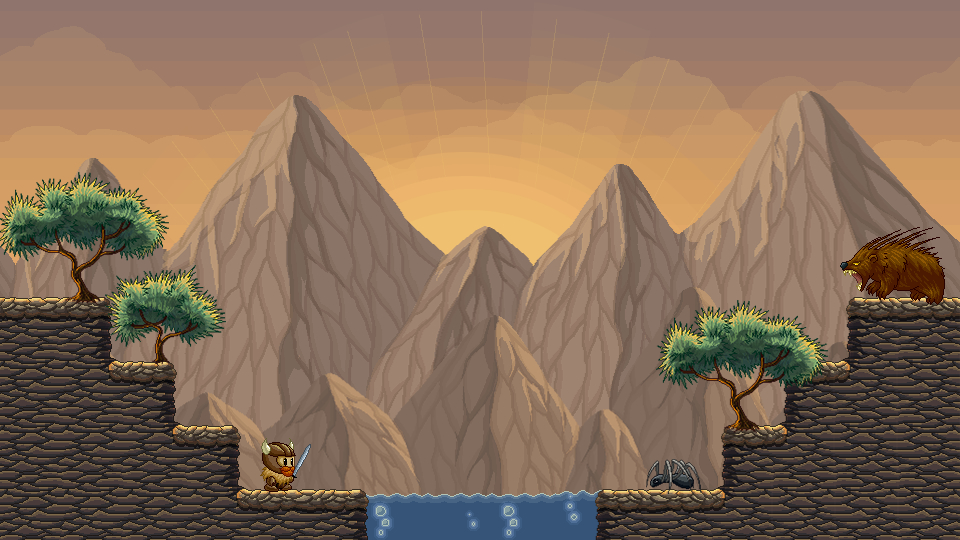
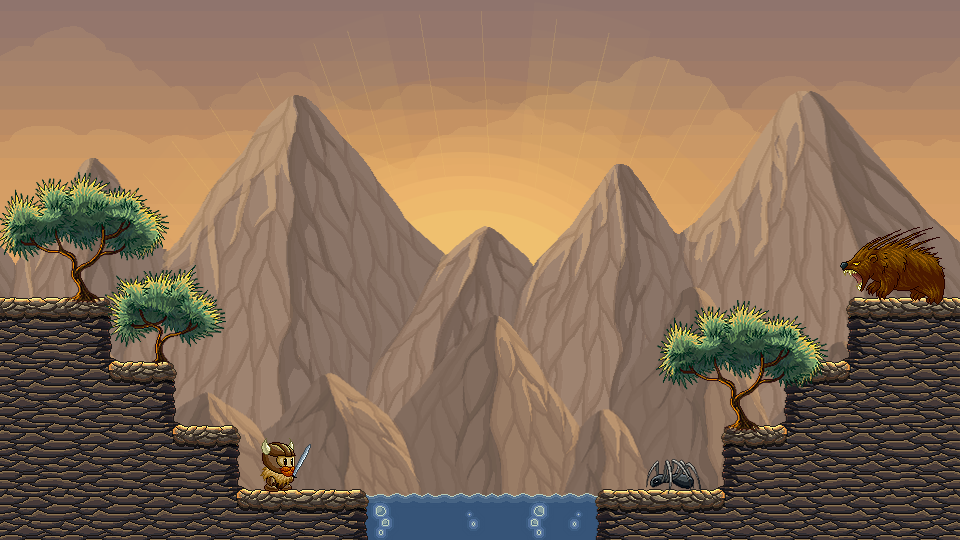
fix: game over font adjusted, and canvas sharpness implemented

diff --git a/models/world.class.js b/models/world.class.js
@@ -38,6 +38,13 @@ class World {
         this.addToMap(this.statusBarCoin);
         this.addToMap(this.statusBarCrystal);
         requestAnimationFrame(() => this.draw());
+
+        if (this.gameOver) {
+            this.ctx.font = "42px VT323";
+            this.ctx.fillStyle = "rgb(62, 57, 53)";
+            this.ctx.textAlign = "center";
+            this.ctx.fillText("G A M E  O V E R", 960 / 2, 100);
+        }
     }
 
     setWorld() {
@@ -57,6 +64,9 @@ class World {
             if(this.character.isColliding(enemy)) {
                 this.character.hit();
                 this.statusBarHeart.setPercentage(this.character.energy);
+                if (this.character.isDead()) {
+                    this.triggerGameOver();
+                }
             }
         });
         this.level.coins.forEach((coin, index) => {
@@ -117,6 +127,13 @@ class World {
 
     flipImageRight(motive) {
         this.ctx.drawImage(motive.img, motive.x, motive.y, motive.width, motive.height);
+    }
+
+    triggerGameOver() {
+        this.gameOver = true;
+        this.character.speed = 0;
+        let gameOverSound = new Audio('audio/game-over.mp3');
+        gameOverSound.play();
     }
 }
 

diff --git a/js/game.js b/js/game.js
@@ -2,6 +2,14 @@ let canvas;
 let world;
 let keyboard = new Keyboard();
 const dialog = document.getElementById("dialog");
+canvas = document.getElementById("canvas");
+const ctx = canvas.getContext("2d");
+const dpr = window.devicePixelRatio || 1;
+canvas.width = 960 * dpr;
+canvas.height = 540 * dpr;
+canvas.style.width = "960px";
+canvas.style.height = "540px";
+ctx.scale(dpr, dpr);
 
 function init() {
     initLevel(); 
@@ -84,14 +92,6 @@ function restartGame() {
     startScreen.classList.add("d-none");
     canvas.classList.remove("d-none");
     init();
-}
-
-function triggerGameOver() {
-    this.gameOver = true;
-    this.character.speed = 0;
-    let gameOverSound = new Audio('audio/game-over.mp3');
-    gameOverSound.play();
-    this.showGameOverText();
 }
 
 function openDialog() {

diff --git a/models/character.class.js b/models/character.class.js
@@ -54,6 +54,7 @@ class Character extends MovableObject {
 
     animate() {
         setInterval(() => {
+            if (this.world.gameOver) return;
             if (this.world.keyboard.RIGHT && this.x < this.world.level.level_end_x) {
                 this.moveRight();
                 this.otherDirection = false;
@@ -67,7 +68,6 @@ class Character extends MovableObject {
             }
             this.world.camera_x = -this.x + 70;
         }, 1000 / 60);
-
         setInterval(() => {
             if(this.isDead()){
                 this.playDeadAnimation();
